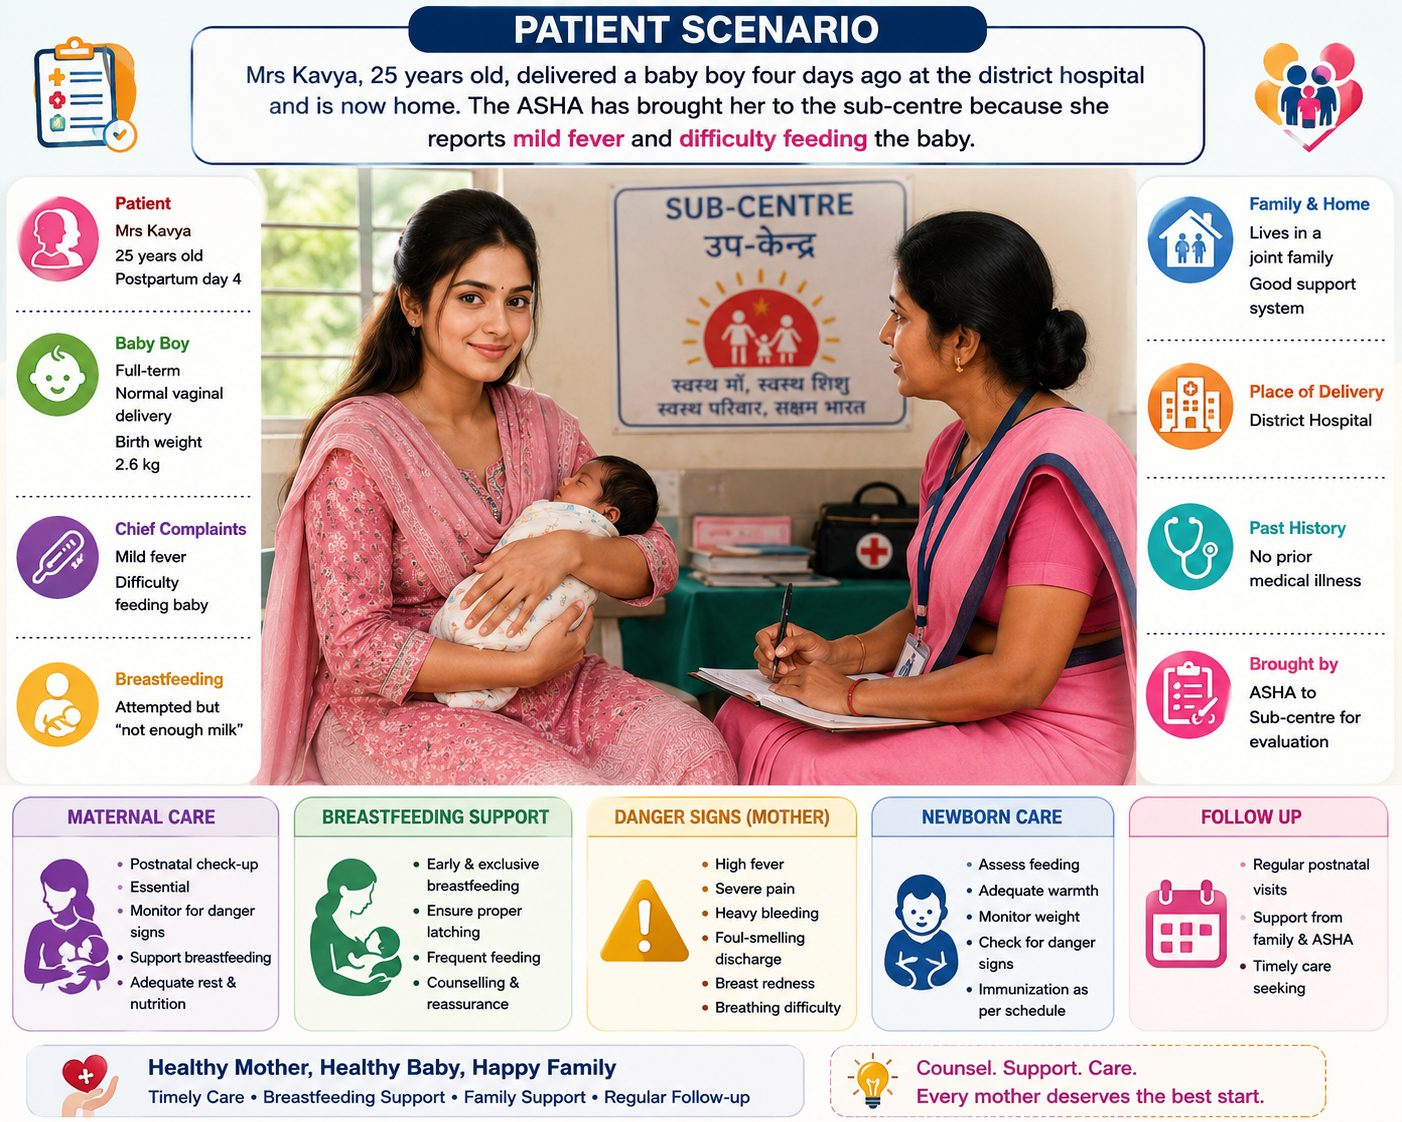
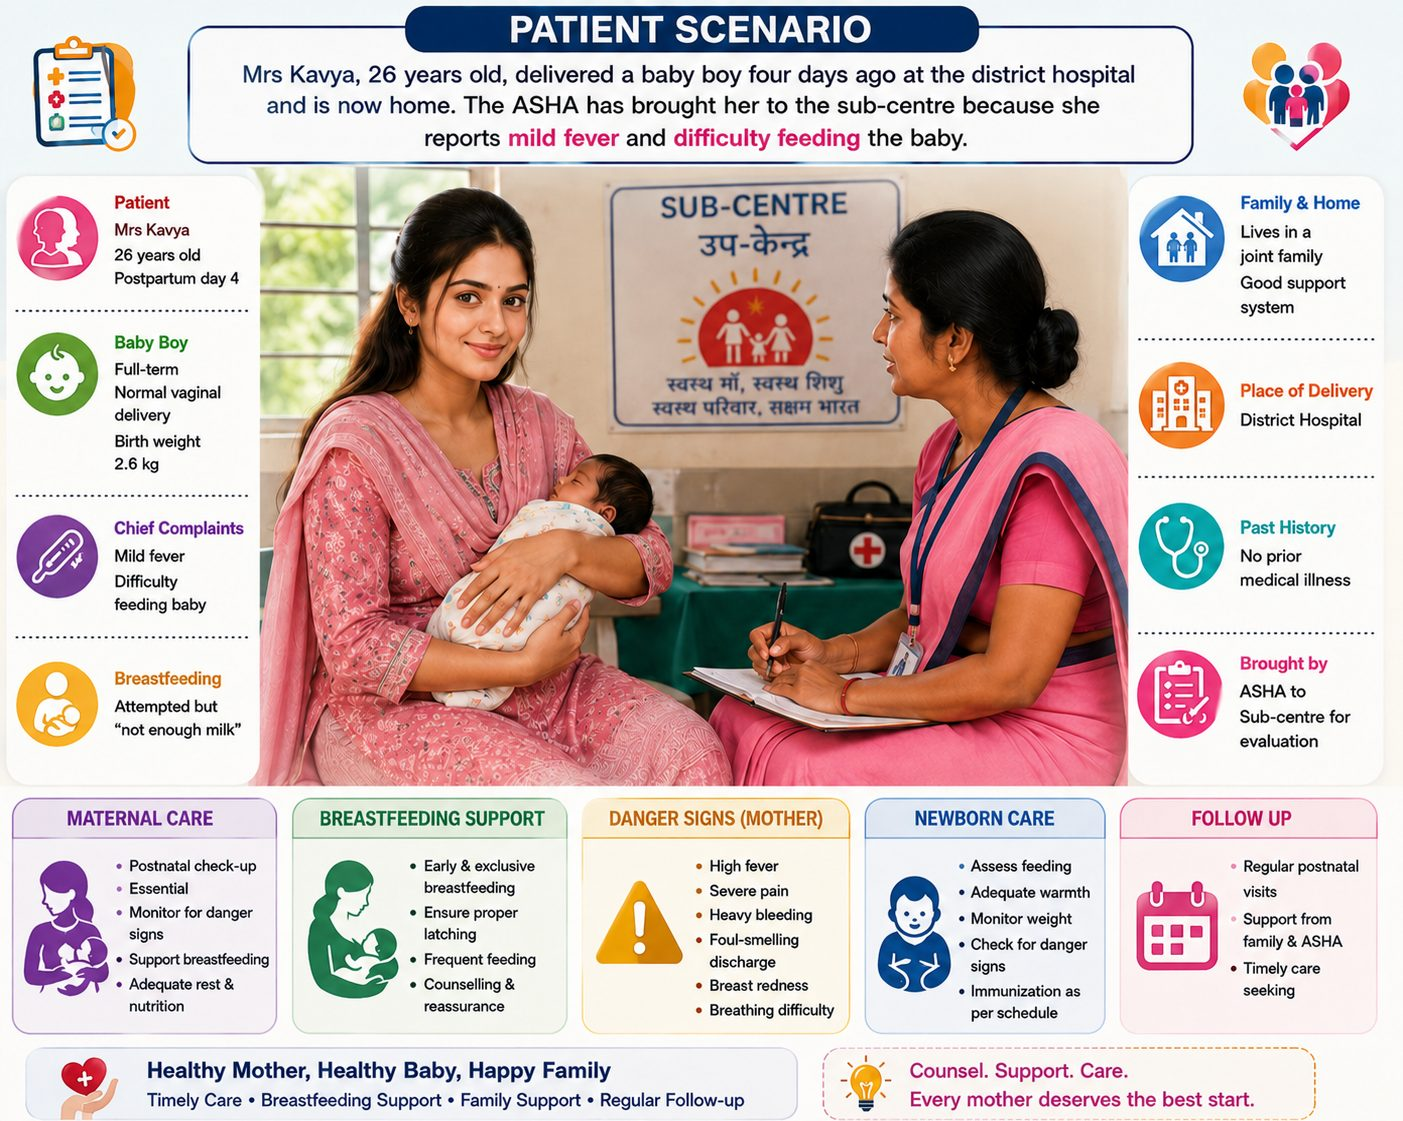
Replace Postnatal Care scenario image with age-corrected regeneration (v1.9.1)
Dr. Kumar regenerated the image with the mother's age corrected to 26,
matching the case's existing scenario text. No other detail drifted.
Re-verified the exam step's breastfeeding-video placeholder (last round's
fix) is still intact.

Claude-Session: https://claude.ai/code/session_01GKwMKs2MJqzwi38Zu6PZKW

Changed region(s): [[0.0, 0.0, 1.0, 1.0], [0.7054, 0.1873, 0.7361, 0.2186], [0.276, 0.0, 0.3067, 0.0312]]

diff --git a/CHANGELOG.md b/CHANGELOG.md
@@ -4,6 +4,33 @@ All notable changes to CaseStep are documented in this file. The format is
 based on [Keep a Changelog](https://keepachangelog.com/), and the project
 adheres to [Semantic Versioning](https://semver.org/).
 
+## [1.9.1] — 2026-07-28
+
+### Postnatal Care scenario image: age-corrected regeneration
+
+Replaces `scenario.jpg` with Dr. Kumar's regenerated version
+(`ChatGPT Image Jul 28, 2026, 12_36_26 PM.png` on `image-upload`), which
+fixes the only discrepancy flagged last round: the mother's stated age
+now reads 26 (both in the infographic's banner text and its "Patient"
+card), matching the case's existing scenario text. Every other detail
+is unchanged and still matches exactly (postpartum day 4, baby boy,
+full-term NVD, 2.6 kg, joint family, "not enough milk", ASHA-escorted,
+mild fever, difficulty feeding) — no other drift from regeneration.
+
+- `public/media/cases/postnatal-care/scenario.jpg`: re-converted from the
+  new PNG at quality 82 — 2,186,931 bytes (~2.09 MB) → 315,738 bytes
+  (~308 KB), ~85.6% reduction, no visible quality loss.
+- `data/cases-extra.ts`: no change needed — the existing caption never
+  referenced age, so it remains accurate against the new image.
+- Re-verified the exam step's "Breastfeeding attachment assessment
+  video" placeholder (the regression caught and fixed last round) is
+  still intact and unaffected.
+- Verified locally: `typecheck`, `lint`, `build`, `vitest` (17/17),
+  `verify.mjs` (11/11), and a headless-browser check confirming the new
+  image loads at full resolution with the caption, the exam step's
+  placeholder renders unchanged, and the management step still shows
+  exactly 1 video with the correct id/title.
+
 ## [1.9.0] — 2026-07-28
 
 ### Postnatal Care case: first video gallery entry and scenario image

diff --git a/README.md b/README.md
@@ -12,7 +12,7 @@
 [![Tailwind CSS](https://img.shields.io/badge/Tailwind_CSS-3-38BDF8?logo=tailwindcss&logoColor=white)](https://tailwindcss.com/)
 [![Supabase](https://img.shields.io/badge/Supabase-optional-3ECF8E?logo=supabase&logoColor=white)](https://supabase.com/)
 [![License: MIT](https://img.shields.io/badge/License-MIT-yellow.svg)](LICENSE)
-[![Release](https://img.shields.io/badge/release-v1.9.0-0d9488)](CHANGELOG.md)
+[![Release](https://img.shields.io/badge/release-v1.9.1-0d9488)](CHANGELOG.md)
 
 **🔗 Live site: [casestep.in](https://casestep.in/)**
 
@@ -132,7 +132,7 @@ Every page — SCT, both dashboards, Research & Evaluation, About, and Contact &
 same illustration/disclaimer visual language, not just the Case Library and OSCE stations from the
 initial multimedia pass.
 
-**Current version:** v1.9.0 (see [CHANGELOG.md](CHANGELOG.md)).
+**Current version:** v1.9.1 (see [CHANGELOG.md](CHANGELOG.md)).
 
 ## Technology stack
 
